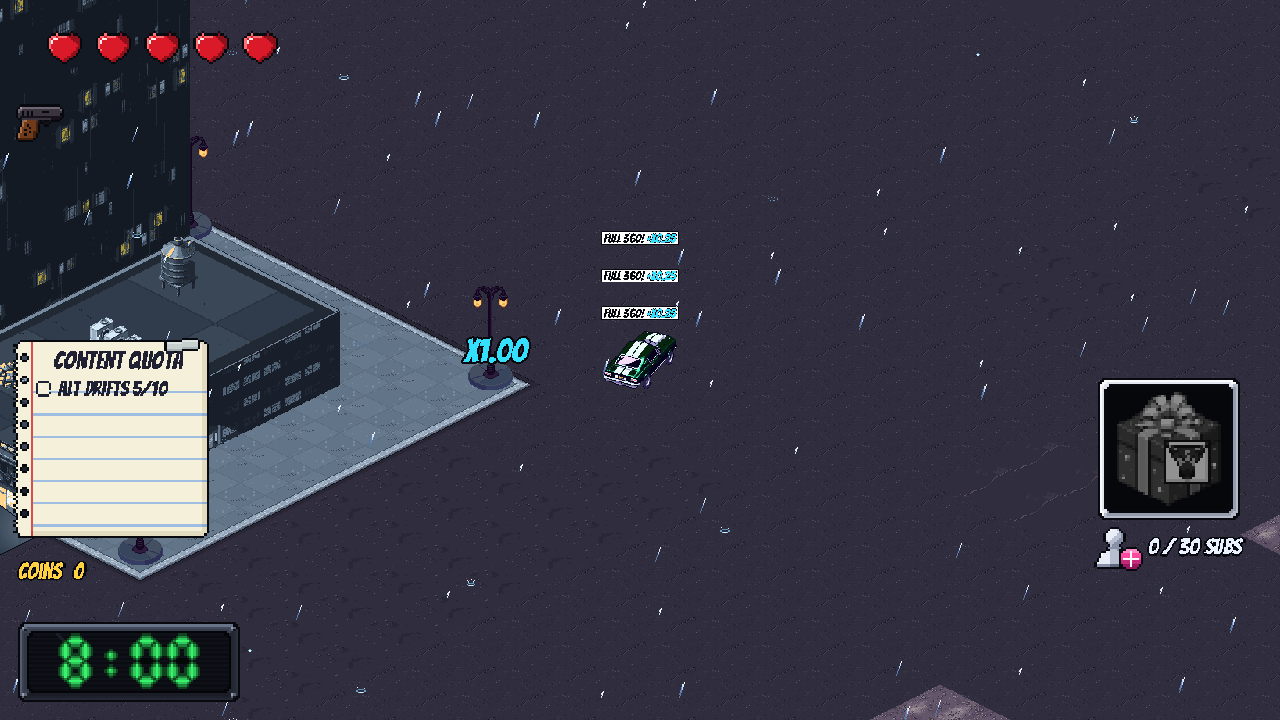
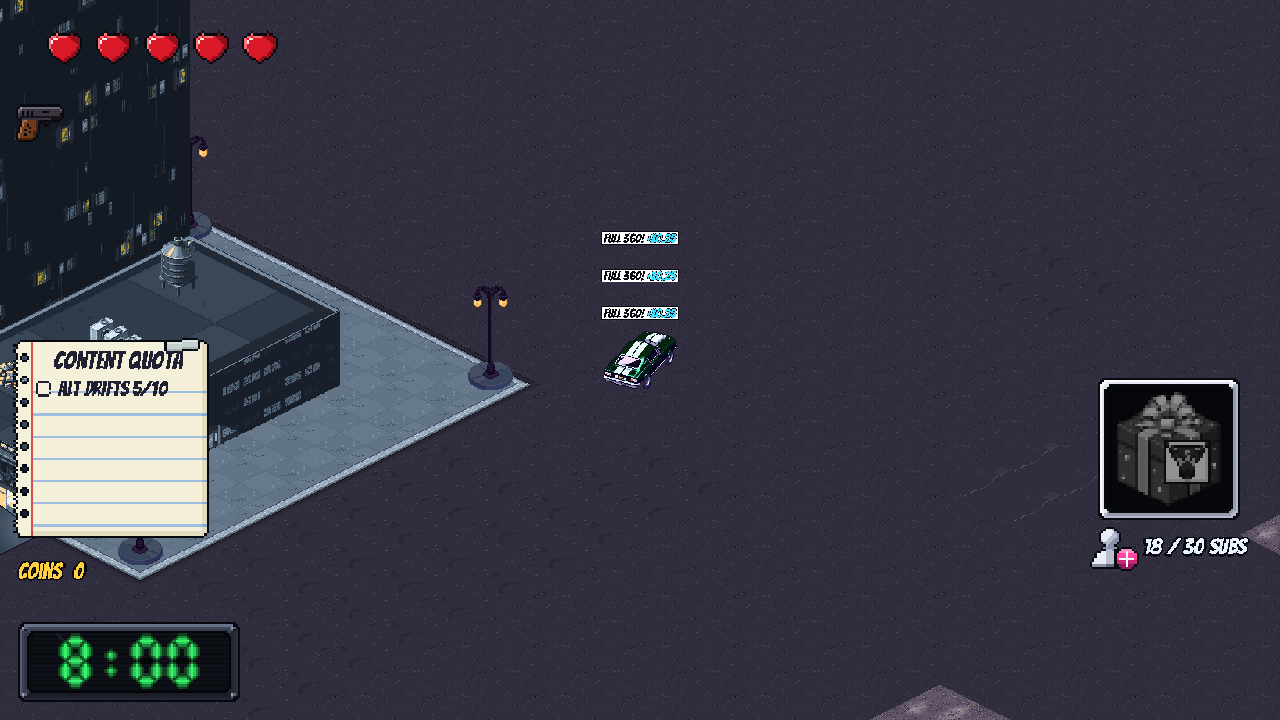
T-514: multiplier hidden at x1 (board's quick tuning)
Claude-Session: https://claude.ai/code/session_01N2d996vfhYzGeir2NtRNR3

Changed region(s): [[0.8438, 0.7333, 1.0, 0.7944], [0.3438, 0.4583, 0.4375, 0.5194]]

diff --git a/docs/hud-and-menus.md b/docs/hud-and-menus.md
@@ -50,7 +50,7 @@ During a run the HUD shows the car's HP, a timer counting down from 8:00, the XP
 - **"Hype Lv" is gone** (board, 2026-10-28): the level is shown only by the sub goal square (it fills, the gift lights up, the level-up goes on); there is no "Hype Lv" text and no level-up pop on it, and none of its code is kept (T-337). The older passages above that mention it describe the game before this change. The board also confirmed the proposals for the live viewers: 2,500 viewers at x1, the heat steps at 20K, 85K and 236K, and fire only from 1M (T-332, T-336), and the PixelLab cap of 40 for the HUD art (T-339). The weapon icons column may be taller than the old health bar did: the health bar is gone, replaced by the hearts, so it doesn't matter (T-338). The coins counter moves to the bottom left above the clock (T-341).
 - **Reactions like a livestream** (board, 2026-10-28): little reaction icons (likes, thumbs up, hearts and the like) **burst out of the sub goal square** when the goal is reached and the gift pack comes, and **float up from the bottom of the screen** now and then, at uneven gaps like a real stream, when the live viewers count is high (more often at each heat step). They are small and partly transparent, kept to the edges and bottom of the screen, never over the car and under the HUD pieces, so they don't hide the road. The rates and the cap on how many show at once are proposals for the playtest. Placeholder icons first; the art comes after. (T-351, T-352)
 - **Bad reactions when the combo breaks** (board, 2026-10-29): when a crash cuts the combo (the COMBO BROKEN! moment), the stream reacts badly: a burst of bad reactions rises from the multiplier's height (T-514; first from the live viewers counter), on the same right-side lane as the floating reactions. Six of them: a crying-laughing face, a thumbs down (a dislike) and a face peeking between its hands (the board's), and a broken heart, a skull and a screaming face (the board left the last three to the Project Lead). The count, spread and speed are proposals for the playtest. Placeholders first; the art is drawn by script like T-352's icons. The board also said the livestream HUD's art needs no rework (the viewers fire, the subs icon and the heart stay as they are), and no ticket to move the pause strip up. (T-356, T-357)
-- **The multiplier beside the car** (board, 2026-11-02; Game loop architecture, Decisions, "Back to the combo multiplier; tricks pay subs"; replaces the live viewers counter and "Tricks bring viewers, shown in one colour" above): the **live viewers counter is gone**; the combo shows as its **multiplier number** (for example x2.50) **beside the car**, following it on screen. A trick popup keeps its name, and its amount shows as the **multiplier it added** (for example +x0.5), which flies into the multiplier by the car, which bumps when it arrives. The subs a trick pays go into the sub goal. Proposals for the playtest (the UI Agent's): the multiplier's exact place, size, colour and heat look (the viewers' heat steps become multiplier steps), how a crash shows on it, where the bad reactions rise from, and the recap showing the peak multiplier. (T-514) **Built (T-514), the UI Agent's proposals for the playtest:** the number "x2.50" (T-512's text) sits **left of the car**, level with it, its centre 130 pixels left of and 8 above the car's centre on screen (the camera keeps the car in the middle, so it follows as the car drives; the airtime and drift counters stay on the car's right); base look the cyan #33e1ff at 30 pixels with a near-black outline, and from x2, x3 and x4 the old combo heat look (ComboHeat colours, glow and pulse) at 34, 38 and 42 pixels, the top look held at the x6 cap, where the reactions run at their fastest rate. No fire art round it and no panel, eye or LIVE badge. It eases to the multiplier (10 per second). A trick popup's "+x0.5" is in the same cyan with a black outline, flies into the number in 0.55 seconds and the number **bumps** (a 30 percent pop) when it lands; the multiplier counts in at that moment. A crash flashes the number red-orange for 0.45 seconds and "-x1.5" drops away from it (T-512's `loss`). The bad reactions rise from the multiplier's height on the right-side lane. The sub goal no longer moves up to clear a counter, and the multiplier is not a movable piece of the HUD layout (a saved layout with "viewers" still loads, the entry is ignored). The subs a trick pays (T-513) show through the sub goal's own fill springing when the run's XP changes. The timings and sizes are in `game/data/hud.json` (`multiplier_tag`). Removed: ViewersCounter, ViewersData and `viewers.json`, the viewers flight's eye, the recap's eye; the viewers art files (panel, LIVE badge, eye, fire) stay in `game/art/hud/` unused.
+- **The multiplier beside the car** (board, 2026-11-02; Game loop architecture, Decisions, "Back to the combo multiplier; tricks pay subs"; replaces the live viewers counter and "Tricks bring viewers, shown in one colour" above): the **live viewers counter is gone**; the combo shows as its **multiplier number** (for example x2.50) **beside the car**, following it on screen. A trick popup keeps its name, and its amount shows as the **multiplier it added** (for example +x0.5), which flies into the multiplier by the car, which bumps when it arrives. The subs a trick pays go into the sub goal. Proposals for the playtest (the UI Agent's): the multiplier's exact place, size, colour and heat look (the viewers' heat steps become multiplier steps), how a crash shows on it, where the bad reactions rise from, and the recap showing the peak multiplier. (T-514) **Built (T-514), the UI Agent's proposals for the playtest:** the number "x2.50" (T-512's text) sits **left of the car**, level with it, its centre 130 pixels left of and 8 above the car's centre on screen (the camera keeps the car in the middle, so it follows as the car drives; the airtime and drift counters stay on the car's right); base look the cyan #33e1ff at 30 pixels with a near-black outline, and from x2, x3 and x4 the old combo heat look (ComboHeat colours, glow and pulse) at 34, 38 and 42 pixels, the top look held at the x6 cap, where the reactions run at their fastest rate. No fire art round it and no panel, eye or LIVE badge. It eases to the multiplier (10 per second). A trick popup's "+x0.5" is in the same cyan with a black outline, flies into the number in 0.55 seconds and the number **bumps** (a 30 percent pop) when it lands; the multiplier counts in at that moment. A crash flashes the number red-orange for 0.45 seconds and "-x1.5" drops away from it (T-512's `loss`). The bad reactions rise from the multiplier's height on the right-side lane. The sub goal no longer moves up to clear a counter, and the multiplier is not a movable piece of the HUD layout (a saved layout with "viewers" still loads, the entry is ignored). The subs a trick pays (T-513) show through the sub goal's own fill springing when the run's XP changes. **Hidden at x1 (the board, quick tuning 2026-11-02: "combo lgtm, but hide it if its at 1x"):** the number is not shown while the combo is at x1.00, at the start of a run and after it has drained back; it fades in over 0.2 seconds with a pop as soon as the combo rises above x1 (a trick's add counts, so a popup's flying amount lands on a number that is already appearing), and fades out when it is back at x1. A crash that cuts the combo to x1 still shows its red flash and "-x{lost}" before it hides. The fade and the pop are proposals for the playtest (`fade_seconds`). The timings and sizes are in `game/data/hud.json` (`multiplier_tag`). Removed: ViewersCounter, ViewersData and `viewers.json`, the viewers flight's eye, the recap's eye; the viewers art files (panel, LIVE badge, eye, fire) stay in `game/art/hud/` unused.
 - **The runs list** (board, 2026-10-29): the main menu gets a new button that opens a list of the player's past runs, each with the stats from its recap screen, saved on this computer. What each row shows, and whether a row opens that run's full recap, are proposals for the playtest. The recap screen closes with a Continue button or an X at the top right (Game loop architecture, Decisions, "The recap always closes a run"). (T-362, T-364) **Deferred to the final release** (board, 2026-10-29, the MVP cut).
 - **The last MVP round: no new scope after it** (board, 2026-10-29): the tutorial slides, the trick list and turning the sound effects off (the three entries below) are the last features for the MVP. After them the board adds no new scope until the MVP is done, apart from polish tickets. Built as one goal: the board's go to build the text, the slides and the art back to back and review them all in one playtest at the end, with a PixelLab cap of 40 for the trick illustrations.
 - **Tutorial slides before the first run** (board, 2026-10-29): when the player presses Start, before the run begins (the clock and everything), the game shows **three slides**. A right arrow and a left arrow move between them; the last slide has a **Start** button (not an X) that starts the run, and a **"Don't show again"** checkbox: if it is ticked when the player presses Start, the slides don't appear on later Starts (saved on this computer). Where the checkbox sits (on the last slide, a proposal) is the agents' proposal. **Slide 1, the controls:** W, A, S and D and what each does, and that accelerating while turning drifts the car on its own. **Slide 2, the loop:** the list of tricks the game counts (drift, 360, alternate drift, air 180, air 360, airtime, thread the needle), each with a small **still pixel art illustration** of the car's movement for that trick (a path arrow, for example a loop for the 360, an S for the alternate drift, a jump arc for the air tricks); then that tricks raise the multiplier, tricks and drifts bring subs, and at each sub goal a gift pack arrives with a weapon that helps the player survive and keep the enemies away. **Slide 3, the goal:** chain as many tricks as possible to get the most weapons, to be at your strongest when the kaiju arrives with 1 minute left (7:00 into the 8:00 run). The illustrations: made both with PixelLab (cap 40 generations for the set) and drawn by script, and QA compares which reads better; the better one goes in. The text is a text ticket's, in the game's voice.
